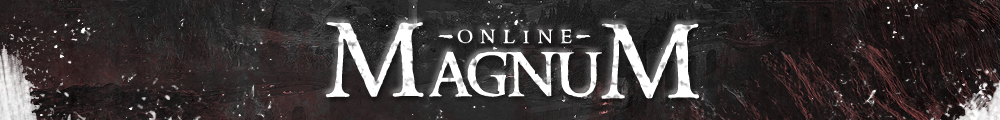
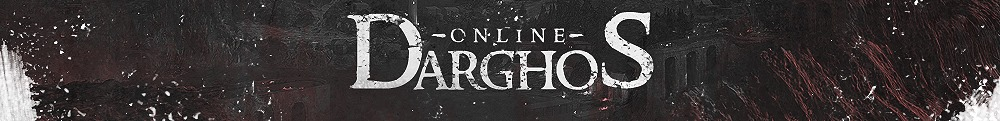
* initial changes

diff --git a/newlay/style.css b/newlay/style.css
@@ -277,47 +277,6 @@ ul li {
 	margin-top: 24px;
 }
 
-#right-menu ul.social-media{
-	padding-top: 2px;
-	padding-bottom: 2px;
-	width: auto;
-	border: none;
-}
-
-#right-menu ul.social-media li{
-	display: inline-block;
-	width: 31px;
-	height: 31px;
-}
-
-#right-menu ul.social-media li.facebook a{
-	background-position: -31px 0;
-	width: 31px;
-}
-
-#right-menu ul.social-media li.facebook a:hover{
-	background-position: -31px -31px;
-	width: 31px;
-}
-
-#right-menu ul.social-media li.twitter a{
-	background-position: -62px 0;
-	width: 31px;
-}
-
-#right-menu ul.social-media li.twitter a:hover{
-	background-position: -62px -31px;
-	width: 31px;
-}
-
-#right-menu ul.social-media li a, #right-menu ul.social-media li a:hover{
-	width: 0px;
-	background: url(images/social.png) no-repeat;
-	width: 31px;
-	height: 31px;
-	padding: 0px;
-}
-
 #left ul li a:not(.not-mennu), #left ul li div, #left ul li table, #right-menu ul > li > a:not(.not-menu), #right-menu ul li div, #right-menu ul li table{
 	background: #333 url(images/subitem.jpg) repeat-x;
 	border: 1px solid #838383;
@@ -455,6 +414,47 @@ ul li {
 	display: block;
 	float: right;
 }*/
+
+#right-menu ul.social-media{
+	padding-top: 2px;
+	padding-bottom: 2px;
+	width: auto;
+	border: none;
+}
+
+#right-menu ul.social-media li{
+	display: inline-block;
+	width: 31px;
+	height: 31px;
+}
+
+#right-menu ul.social-media li.facebook a{
+	background-position: -31px 0;
+	width: 31px;
+}
+
+#right-menu ul.social-media li.facebook a:hover{
+	background-position: -31px -31px;
+	width: 31px;
+}
+
+#right-menu ul.social-media li.twitter a{
+	background-position: -62px 0;
+	width: 31px;
+}
+
+#right-menu ul.social-media li.twitter a:hover{
+	background-position: -62px -31px;
+	width: 31px;
+}
+
+#right-menu ul.social-media li a, #right-menu ul.social-media li a:hover{
+	width: 0px;
+	background: url(images/social.png) no-repeat;
+	width: 31px;
+	height: 31px;
+	padding: 0px;
+}
 
 #wrapper {
 	background: url(images/wrapper.jpg) repeat;

diff --git a/newlay/index.html b/newlay/index.html
@@ -63,7 +63,7 @@
 				
 	
 				<div id="top-menu">
-					<marquee behavior="scroll" direction="left" scrollamount="3">Abertura oficial em 20 de Abril, às 15hrs! Chame os amigos!</marquee>
+					<marquee behavior="scroll" direction="left" scrollamount="3">Edição de 10 anos do Darghos! Começa dia 4 de janeiro as 20:00 hrs!</marquee>
 				</div>		
 	
 	
@@ -88,7 +88,7 @@
 					</div>
 				</div>
 				
-				<div id="footer"><p style="margin: 13px;">&copy; 2015 <a href="http://magnum-server.com.br/?ref=general.support">Magnum Staff</a> | D-like Server powered by <a href="http://darghos.com/">UltraxSoft</a></p></div>
+				<div id="footer"><p style="margin: 13px;">&copy; 2006 ~ 2016 <a href="http://darghos.com.br">Darghos Server</a></p></div>
 			</div>
 		</div>		
 	</body>

diff --git a/classes/Core/Menus.php b/classes/Core/Menus.php
@@ -480,9 +480,7 @@ class Menus
 	    
 	    $li = $ul->addChild("li");
 	    
-	    $li->addChild("utils");
-	    
-	    return true;	    
+	    $li->addChild("utils"); 
 	    
 	    return true;
 	}
@@ -497,14 +495,12 @@ class Menus
     			"name" => "navigation",
     			"items" => array(
     				array("name" => 'Ultimas Notícias', "url" => "?ref=news.last")
-    				,array("name" => "Serverinfo", "url" => "?ref=general.about", "icon" => "icon-exclamation")
-    				,array("name" => "Player vs Player", "url" => "?ref=general.pvp", "icon" => "icon-skull")
-    				,array("name" => "Battleground", "url" => "?ref=general.battleground")
+    				,array("name" => "Serverinfo", "url" => "?ref=general.about")
+    				,array("name" => "Battleground", "url" => "?ref=general.battleground", "icon" => "icon-exclamation")
     				//,array("name" => "Downloads", "url" => "?ref=general.downloads")
     				//,array("name" => "Darghos Tunnel", "url" => "?ref=tunnel.about")
     				,array("name" => "Perguntas Frequentes", "url" => "?ref=general.faq")
     				,array("name" => "Suporte", "url" => "?ref=general.support")	
-    				,array("name" => "Fansites", "url" => "?ref=general.fansites")	
 			        ,array("name" => "O Mapa", "url" => "?ref=darghopedia.world")
 			        ,array("name" => "Criaturas", "url" => "?ref=darghopedia.monsterlist")    			        
     			)
@@ -605,11 +601,11 @@ class Menus
 		$string = "";
 		
 		self::$rightMenu = array(
-            /*array(
+            array(
                 "title" => "Redes Sociais",
                 "name" => "social-media",
                 "onDraw" => "drawMedia"
-            ),*/	
+            ),
     		array(
     			"title" => "Server Status",
     			"name" => "serverstatus",
@@ -666,7 +662,6 @@ class Menus
         <div>
             <ul class="social-media">
               <li class="facebook"><a href="https://facebook.com/DarghosOT" title="Darghos no Facebook"></a></li>
-              <li class="twitter"><a href="https://twitter.com/darghos_server" title="Darghos no Twitter"></a></li>
             </ul>
         </div>';
         
@@ -678,24 +673,13 @@ class Menus
                 <li>
                     <a href="?ref=general.client" class="not-menu">
                         <img src="newlay/images/icon_client.png" width="60px"/>
-                        <span>Magnum Client</span>
+                        <span>Cliente Darghos</span>
                     </a>
                 </li>
                 <li>
                     <a href="?ref=general.teamspeak" class="not-menu">
                         <img src="newlay/images/icon_ts.png" width="60px"/>
                         <span>TeamSpeak 3</span>
-                </li>
-                <li>
-                    <a href="?ref=general.elfbot" class="not-menu">
-                        <img src="newlay/images/icon_elf.png" width="60px"/>
-                        <span>Elfbot</span>
-                    </a>
-                </li>
-                <li>
-                    <a href="?ref=general.skype" class="not-menu">
-                        <img src="newlay/images/icon_skype.png" width="60px"/>
-                        <span>Skype</span>
                     </a>
                 </li>
             </ul>

diff --git a/modules/general/support.php b/modules/general/support.php
@@ -5,81 +5,12 @@ $module .= "
 <p>".tr("A maneira mais prática para isto é tentar usar o <b>canal de ajuda</b> (Help Channel) ou o <b>tela de violações</b> (<b>Control + R</b> dentro do jogo). Você pode ainda tentar entrar com contato direto com eles, enviando uma <b>mensagem particular</b> (PM).")."</p>
 ";
 
-function getRowStr($player_id){
-    $player = new Framework\Player();
-    $player->load($player_id);
-    
-    $str = "";
-    $status_str = "";
-    
-    if($player->getOnline()){
-        $status_str .= "<span style='color: #00ff00; font-weight: bold;'>".tr("online")."</span>";
-    }
-    else{
-        $lastlogin = new DateTime("@{$player->getLastLogin()}");
-        $now = new DateTime();
-        $diff = $lastlogin->diff($now);
-    
-        $status_str .= tr("visto ultima vez: @v1@ dia(s) atrás", $diff->format("%a"));
-    }
-    
-    $str .= "
-    <tr>
-        <td class='name'><a href='?ref=character.view&name={$player->getName()}'>{$player->getName()}</a></td>
-        <td><span style='font-size: 9px;'>{$status_str}</span></td>
-    </tr>
-    ";    
-    
-    return $str;
-}
-
-$members_str = "";
-$tutors_str = "";
-
-$staff_groups = array(t_Group::GameMaster, t_Group::CommunityManager, t_Group::Administrator, t_Group::SuperAdministrator);
-$tutors_groups = array(t_Group::Tutor, t_Group::SeniorTutor);
-
-$query = \Core\Main::$DB->query("SELECT `id` FROM `players` WHERE `group_id` IN (".implode(",", $staff_groups).")");
-while($fetch = $query->fetch()){ $members_str .= getRowStr($fetch->id); }
-
-$query = \Core\Main::$DB->query("SELECT `id` FROM `players` WHERE `group_id` IN (".implode(",", $tutors_groups).")");
-while($fetch = $query->fetch()){ $tutors_str .= getRowStr($fetch->id); }
-
-$module .= '
-
-<h3 style="margin-top: 15px;">'.tr("Membros da Equipe").'</h3>
-
-<table cellspacing="0" cellpadding="0" id="table">
-		<tbody>
-		    <tr>
-    			<th width="50%">'.tr("Nome").'</th> <th width="25%">'.tr("Status").'</th>
-    		</tr>	
-	
-			'.$members_str.'
-		
-	    </tbody>
-</table>
-
-<h3 style="margin-top: 15px;">'.tr("Lista de Tutores").'</h3>
-
-<table cellspacing="0" cellpadding="0" id="table">
-		<tbody>
-		    <tr>
-    			<th width="65%">'.tr("Nome").'</th> <th width="25%">'.tr("Status").'</th>
-    		</tr>	
-	
-			'.$tutors_str.'
-		
-	    </tbody>
-</table>';
-
 $module .= "
 
 <p style='margin-top: 30px;'>".tr("Caso você não encontre nenhum membro da staff ou tutor para lhe ajudar você pode ainda tentar:")."</p>
 
 <ul>
     <li><span style='font-size: 9px;'>".tr("Verificar nossa pagina de <a href='?ref=general.faq'>perguntas e respostas frequentes</a>.")."</span></li>
-    <li><span style='font-size: 9px;'>".tr("Criar um post na seção de Suporte de nosso Fórum.")."</span></li>
     <li><span style='font-size: 9px;'>".tr("Curta e envie uma mensagem inbox em nosso <a href='https://www.facebook.com/DarghosOT'>Facebook</a> (atendimento leva minutos ou algumas horas).")."</span></li>
     <li><span style='font-size: 9px;'>".tr("Contate-nos através do e-mail <a href='#'>".getConf(confEnum()->WEBSITE_EMAIL_SUPPORT)."</a> (atendimento leva 1-5 dias).")."</span></li>
 </ul>

diff --git a/configs/config.php b/configs/config.php
@@ -9,13 +9,13 @@ $__configs [Core\Configs::eConf ()->FOLDER_DATA] = "data/";
 $__configs [Core\Configs::eConf ()->ENABLE_MULTIWORLD] = false;
 $__configs [Core\Configs::eConf ()->STATUS_SHOW_TEST_SERVER] = false;
 
-$__configs [Core\Configs::eConf ()->WEBSITE_URL] = "http://platinum.darghos.com";
-$__configs [Core\Configs::eConf ()->WEBSITE_EMAIL_SUPPORT] = "platinum@darghos.com";
-$__configs [Core\Configs::eConf ()->WEBSITE_NAME] = "Platinum";
-$__configs [Core\Configs::eConf ()->WEBSITE_TEAM] = "Platinum Staff";
+$__configs [Core\Configs::eConf ()->WEBSITE_URL] = "http://darghos.com.br";
+$__configs [Core\Configs::eConf ()->WEBSITE_EMAIL_SUPPORT] = "suporte@darghos.com";
+$__configs [Core\Configs::eConf ()->WEBSITE_NAME] = "Darghos";
+$__configs [Core\Configs::eConf ()->WEBSITE_TEAM] = "Darghos Staff";
 
 $__configs [Core\Configs::eConf ()->ENABLE_MANUTENTION] = false;
-$__configs [Core\Configs::eConf ()->MENUTENTION_TITLE] = "Darghos Platinum";
+$__configs [Core\Configs::eConf ()->MENUTENTION_TITLE] = "Darghos";
 $__configs [Core\Configs::eConf ()->MANUTENTION_BODY] = "
 	<p>Primeiro D-like, em fase de preparo e testes. Online em breve!</p>
 ";

diff --git a/modules/news/last.php b/modules/news/last.php
@@ -165,7 +165,7 @@ $xmlStr = "
 				{$topic->GetTitle()}
 			</h3>
 			<div id='infos-line'>
-			por <a href='?ref=character.view&name={$author->getName()}'>{$author->getName()}</a>, <span>".\Core\Main::formatDate($topic->GetDate())."</span> {$comment}
+			postado em <span>".\Core\Main::formatDate($topic->GetDate())."</span> {$comment}
 			</div>	
 		</div>
 		<div id='new-summary'>{$summary}</div>

diff --git a/modules/account/register.php b/modules/account/register.php
@@ -18,6 +18,11 @@ class View
 			return;
 		}
 		
+		if(!$_GET["pass"]){
+		    \Core\Main::sendMessageBox("Indisponível", "A criação de contas estará liberada em breve!");
+		    return false;
+		}
+		
 		if(!$this->Prepare())
 		{
 			\Core\Main::sendMessageBox(\Core\Lang::Message(\Core\Lang::$e_Msgs->ERROR), $this->_message);
